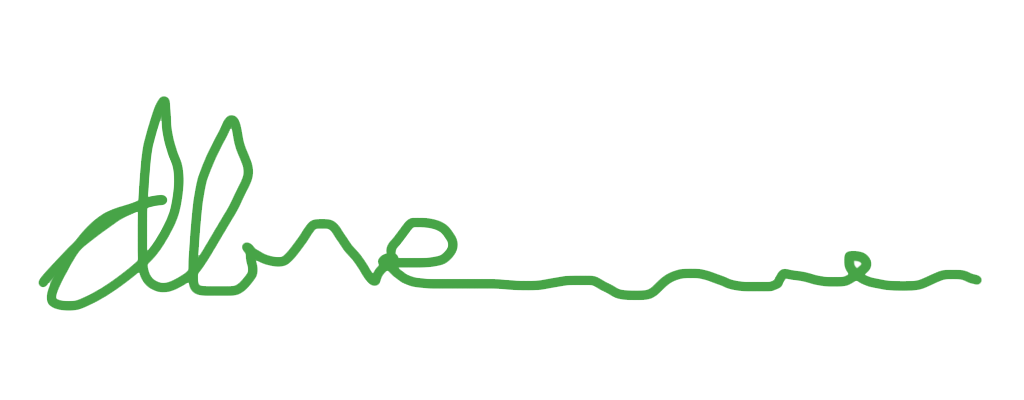
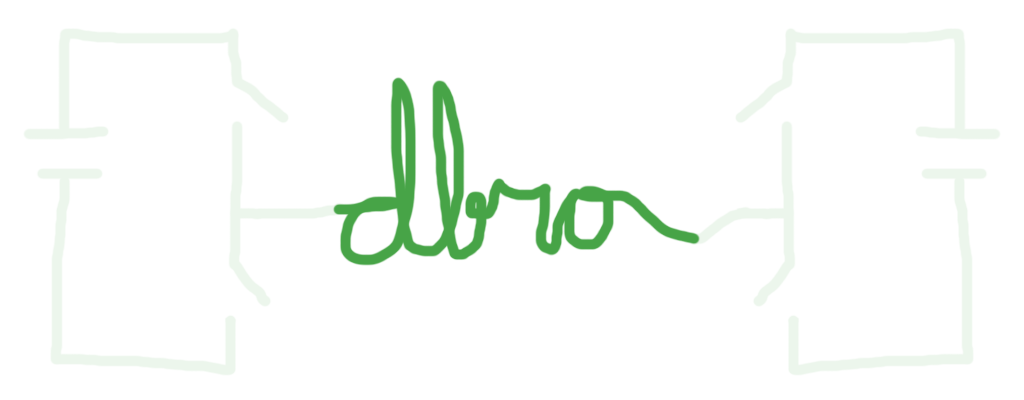
first post. pagination

Changed region(s): [[0.0312, 0.18, 0.6875, 0.78], [0.5938, 0.63, 0.9688, 0.75]]

diff --git a/index.html b/index.html
@@ -3,15 +3,48 @@ layout: default
 title: dbro.pro
 ---
 
-
-{% for post in site.posts %}
+<!-- Posts -->
+{% for post in paginator.posts %}
 <div class="row">
 	<div class="col-md-8 col-md-offset-2">
+		<a href="{{ post.url }}">
 		<div class="card">
-			<h1><a href="{{ post.url }}">{{ post.title }}</a></h1>
-			<p>{{ post.blurb }} <a href="google.com">google</a></p>
+			<h1>{{ post.title }}</h1>
+			<p>{{ post.blurb }}</p>
 			<p>{{ post.date | date_to_string }}</p>
 		</div>
+		</a>
 	</div>
 </div>
 {% endfor %}
+
+<!-- Paginator Links -->
+<div class="row">
+	<div class="col-md-8 col-md-offset-2" style="text-align:center">
+	{% if paginator.total_pages > 1 %}
+	<div class="pagination">
+	  {% if paginator.previous_page %}
+	    <a class="arrow" href="{{ paginator.previous_page_path | prepend: site.baseurl | replace: '//', '/' }}"><span class="glyphicon glyphicon glyphicon-chevron-left arrow"></span></a>
+	  {% else %}
+	    <span class="glyphicon glyphicon glyphicon-chevron-left arrow"></span>
+	  {% endif %}
+
+	  {% for page in (1..paginator.total_pages) %}
+	    {% if page == paginator.page %}
+	      <em>{{ page }}</em>
+	    {% elsif page == 1 %}
+	      <a href="{{ '/index.html' | prepend: site.baseurl | replace: '//', '/' }}">{{ page }}</a>
+	    {% else %}
+	      <a href="{{ site.paginate_path | prepend: site.baseurl | replace: '//', '/' | replace: ':num', page }}">{{ page }}</a>
+	    {% endif %}
+	  {% endfor %}
+
+	  {% if paginator.next_page %}
+	    <a class="arrow" href="{{ paginator.next_page_path | prepend: site.baseurl | replace: '//', '/' }}"><span class="glyphicon glyphicon glyphicon-chevron-right arrow"></span></a>
+	  {% else %}
+	    <span class="glyphicon glyphicon glyphicon-chevron-right arrow"></span>
+	  {% endif %}
+	</div>
+	{% endif %}
+	</div>
+</div>

diff --git a/about.html b/about.html
@@ -1,0 +1,32 @@
+---
+layout: default
+title: dbro.pro
+---
+
+<!-- About -->
+
+<div class="row">
+	<div class="col-md-8 col-md-offset-2 card">
+		<div>
+			<h1>David <span style="color:#c7c7cc">Brodsky</span></h1>
+			<p>Hello!</p>
+
+			<p>I built <a href="https://www.openwatch.net">OpenWatch</a> with <a href="https://github.com/Miserlou">Rich</a> and <a href="https://github.com/chrisballinger/">Chris</a> to provide an immutable channel for the truth.</p>
+
+			<p>I'm making it easier to broadcast live video from mobile phones, without relying on proprietary back-end servers.</p>
+
+			<p>The silly logo is a bi-directional DC-DC converter, which is a nifty thing I worked on a while ago.</p>
+
+		</div>
+	</div>
+</div>
+
+<div class="row">
+	<div class="col-md-8 col-md-offset-2" style="text-align:center">
+		<span>
+			<a class="icon" href="mailto:dbro@dbro.pro"><img height="30px" src="/img/email-icon.png"/></a>
+			<a class="icon" href="https://github.com/OnlyInAmerica"><img height="30px" src="/img/GitHub-Mark-120px-plus.png"/></a>  
+			<a class="icon" href="https://stackoverflow.com/users/1238514/dbro"><img height="30px" src="/img/so-icon.png"/></a>
+		</span>
+	</div>
+</div>

diff --git a/css/dbro.css b/css/dbro.css
@@ -10,6 +10,10 @@ div.card {
   border-radius: 2px;
   }
 
+  div.card p{
+    line-height: 1.5em;
+  }
+
   div.card p.url {
     border-top: 1px solid #e5e5e5;
     background-image: url('http://www.eriklindemann.com/wp-content/uploads/2013/05/url.png');
@@ -70,6 +74,24 @@ a:hover{
 .header{
   margin-top:15px;
 }
+
+.arrow{
+  font-size: 1.2em;
+}
+
+.icon{
+  padding-right:5px;
+}
+
+p.url {
+    border-top: 1px solid #e5e5e5;
+    background-image: url('http://www.eriklindemann.com/wp-content/uploads/2013/05/url.png');
+    background-repeat: no-repeat;
+    padding: 6px 0 0 30px;
+    height: 30px;
+    display: block;
+    margin-bottom: -10px;
+  }
 
 /*****************************************************************************/
 /*

diff --git a/_layouts/default.html b/_layouts/default.html
@@ -19,13 +19,14 @@
   </head>
   <body>
     <div class="container">
-    
-    <div class="row header">
-      <div class="col-md-8 col-md-offset-2">
-      <a href="/"><img src="/img/dbro.png" class="img-responsive" alt="dbro"></a>
+      <div class="row header">
+        <div class="col-md-8 col-md-offset-2">
+        <a href="/"><img src="/img/dbro.png" class="img-responsive" alt="Bzzzzzzt!"></a>
+        </div>
       </div>
-    </div>
+
       {{ content }}
+
     </div>
     <!-- jQuery (necessary for Bootstrap's JavaScript plugins) -->
     <script src="https://code.jquery.com/jquery.js"></script>

diff --git a/_layouts/post.html b/_layouts/post.html
@@ -6,7 +6,8 @@ layout: default
 	<div class="col-md-8 col-md-offset-2">
 		<div class="card">
 			<h1><a href="{{ post.url }}">{{ page.title }}</a></h1>
-			<p>{{ page.blurb }} <a href="google.com">google</a></p>
+			<p>{{ page.blurb }}</p>
+			<div style="border-top: 1px solid #e5e5e5;"></div>
 			<p class="post">{{ content }}</p>
 			<p>{{ page.date | date_to_string }}</p>
 		</div>
